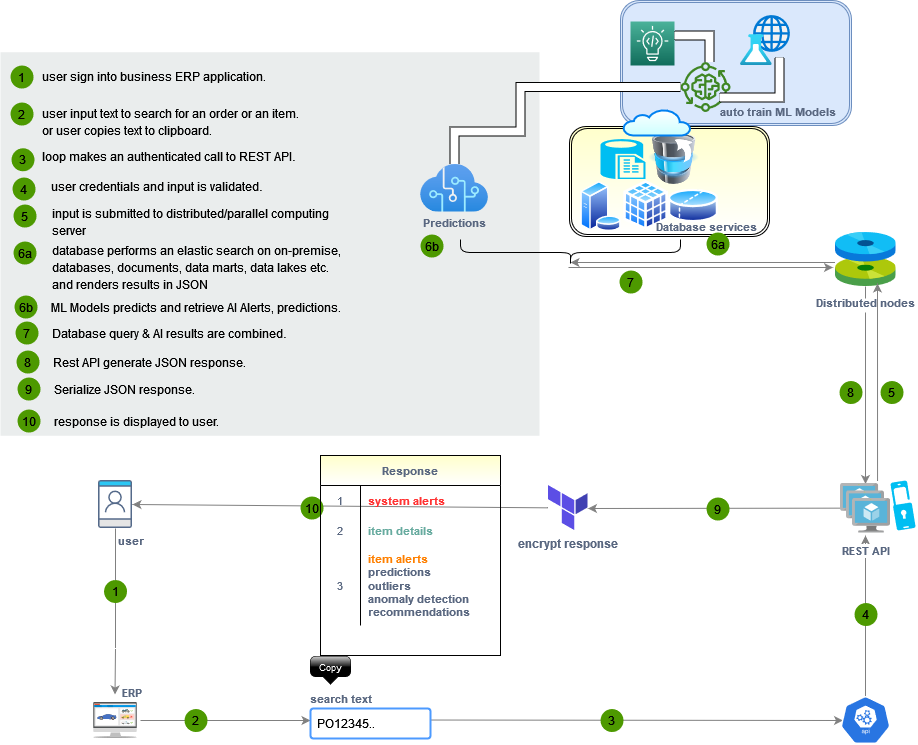
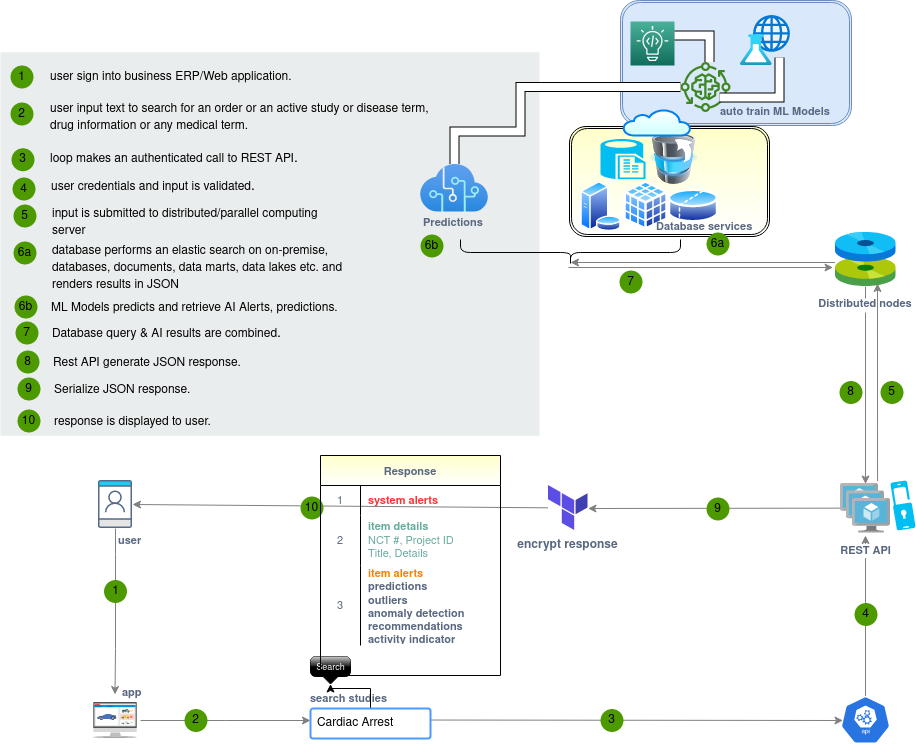
v0.10

diff --git a/README.md b/README.md
@@ -1,9 +1,9 @@
 # Rx API with NLP Prediction
-Display active studies, featured Clinical Trial oppurtnities, drugs & medical encyclopedia from ClinicalTrials.gov, NLM, Medline, CDC API/database based on disease terms, drugs or medical terms.
+Display active studies, featured Clinical Trial opportunities, drugs & medical encyclopedia from ClinicalTrials.gov, NLM, Medline, CDC API/database based on disease terms, drugs or medical terms.
 
-Rest API features an active NLP AI which searched results in different sources and display search results from authorized trusted sources. API further classify studies based using on-premise pre-trained NLP Predictive Analytics and predicts active research clinical trials oppurtunities.
+Rest API features an active NLP AI which search and display search results from authorized trusted sources. API further classify studies based using on-premise pre-trained NLP Predictive Analytics and predicts active research clinical trials opportunities.
 
-**Sources:** ClinicalTrails.gov, NLM(National Library of Medicine), Medline Medical encyclopedia, CDC, wikipedia
+**Sources:** ClinicalTrails.gov, NIH, NLM(National Library of Medicine), Medline Medical encyclopedia, CDC, wikipedia
 
 **Author:** Amit Shukla
 
@@ -12,28 +12,22 @@ Rest API features an active NLP AI which searched results in different sources a
 **Releases schedule**
 ```
     Mar-31-2022 - v0.10 - Active RestAPI
-    May-31-2022 - v0.20 - Active Rest API with Predictive Analytics AI
+    May-31-2022 - v0.20 - Predictive Analytics AI
 ```
 
 ---
 ## about Rx Clinical Trial API
 Clinical Trials.gov is extremely rich source of information for active Clinical studies.
-This Olive Loop simply access Clinical Trail API and pull results based on active results from ClinicalTrails.gov database.
+This REST API calls Clinical Trail API and pull results based on active results from ClinicalTrails.gov database.
 
-Also, We developed a ML model based on spacy.io NLP (Natural Language Processing), which takes on-premise studies or any open text in on-premise research documents and find a match from ClinicalTrials.gov.
+Also, We developed a ML model based on spacy.io NLP (Natural Language Processing), which takes on-premise studies or any open text in on-premise research documents and find a match from ClinicalTrials.gov. ML Models helps users located appropriate research and grants opportunities in specified interested domains.
 
-For example, Organization has on-premise database for active research studies and they want to see "similar" active studies done by other research groups from Clinical Trials database.
+Further, this AI/Spacy.io NLP Model can be used to predict disease terms, active similar studies with fuzzy matching title from other online resources like NIH.gov and CDC databases. Rest API also uses, other sources like NLM, CDC and wikipedia to display and train ML models based on medical encyclopedia / literature.
 
-Further, this AI/Spacy.io NLP Model can be used to predict disease terms, active similar studies with fuzzy matching title from other online resources like NIH.gov and CDC databases.
-
-This helps, Researchers have complete visibility and operation intelligence information readily available to make quick, effective and informed decisions.
-
-
-It acts as an AI assistant to help user make quick informed decision. As user input, search for active studies on ClinicalTrial.gov API, it also fetches live data & predictive analytics based on pre-trained AI Spacy.io NLP models on historical transactions stored in system.
-
+Using this Rx Clinical Trials API, Researchers have complete visibility and operation intelligence information readily available to make quick, effective and informed decisions.
 # how does it work
 
-    user login to Healthcare OLTP / ERP Application
+    user login to Healthcare OLTP / ERP or Web Application
     user input
     for example, disease terms like | << heart attack >> (use these string for **demo)
 
@@ -49,85 +43,21 @@ It acts as an AI assistant to help user make quick informed decision. As user in
 # Technology stack
     Front end: Olive Helps
     Middleware: Olive Loop
-    REST API: https://www.clinicaltrials.gov/api/gui
-              JuliaLang | NodeJS | Spacy.io NLP Model
+    REST API/Sources: https://www.clinicaltrials.gov/api/gui
+            https://www.nih.gov/
+            https://www.nlm.nih.gov/
+            https://www.cdc.gov/
     Cloud: any (** Oracle OCI | Microsoft Azure | AWS)
     Database: any (**Oracle | MYSQL | Firebase | MongoDB)
     AI: JuliaLang & FluxML.ai | Python & Pytorch
 
 # Application Process
-![Application Process](/assets/images/Application_Process.png)
+![Application Process](/assets/images/app_process.png)
 
 # System Process
-![Application Process](/assets/images/ERD.png)
-
+![Application Process](/assets/images/Application_Process.png)
 # License Agreement
-https://github.com/AmitXShukla/ClinicalTrials.gov_API_Loop_AI/blob/main/LICENSE
+https://github.com/AmitXShukla/Rx-API-with-NLP-Prediction/blob/main/LICENSE
 
 # Privacy Policy
-https://github.com/AmitXShukla/SCM_Rx_Inventory_OLIVEai/blob/main/LICENSE
-
-# Aptitudes used
-    clipboardListener
-    keyboardListener
-    networkExample
-    searchListener
-
-
-# how Loop/Author uses the user’s information
-
-    CT_OliveAI loop reads clipboard/ user input text and access/search database / AI Prediction analytics through REST API and renders results.
-
-    This loop does NOT store any user input information anywhere in application and it does NOT alter/update any back-end information based on Olive Helps loop user input.
-
-# Declare where your loop is sending users’ information, including the subdomain level
-    loop does NOT send/store any user information, except search strings are used to access API and pull data from database/API.
-    
-    These search text string are NOT stored anywhere in API/Target system.
-
-# Test your Loop for crashes and bugs
-    This loop passed active UAT test.
-
-    Loop is tested for crashed and bugs on-premise data.
-
-# Enable backend services so that they’re live and accessible during review
-
-    https://github.com/AmitXShukla/ClinicalTrials.gov_API_Loop_AI
-
-# Provide documentation and/or source code of how data transmitted from Olive Helps is being consumed and/or persisted
-
-    ClinicalTrials.gov_API_Loop_AI loop reads clipboard/ user input text and access/search database / AI Prediction analytics through REST API and renders results.
-
-    This loop does NOT store any user input information anywhere in application and it does NOT alter/update any back-end information based on Olive Helps loop user input.
-    Please refer to Application process above for more details.
-
-# Confirm all servers associated with your loops, transmitted, and/or persisted data are hosted in the US
-
-    All servers associated with loops, transmitted and/or persisted data are hosted in US.
-
-# Confirm no data will be transmitted outside of the US
-
-    No data will be transmitted outside of the US
-
-# how to trigger each type of Whisper or workflow within the Loop
-    user login to Healthcare OLTP / ERP Application
-    user input
-    for example, disease terms like | << heart attack >> (use these string for **demo)
-
-    -> Olive Helps Aptitudes / Sensor
-        -> Elastic search
-            -> Active Study
-                
-            -> Matching Studies in local on-premise database (non ClinicalTrial)
-    
-    ** in demo environment, use input such as - << heart attack >> || << stroke >>
-    ** in production, backend AI build a unique index tables for elastic search and acknowledge and classify user input search accordingly.
-
-
-# Submit detailed explanations of any non-obvious features, including supporting documentation where appropriate
-    this loop also used a pre-trained spacy.io NLP model
-
-    please see ML_Models folder in GitHub repository.
-
-# loop is utilizing the loopOpenHandler to initiate loop's start whisper upon selection from search dropdown
-    tested
+https://github.com/AmitXShukla/Rx-API-with-NLP-Prediction/blob/main/LICENSE
